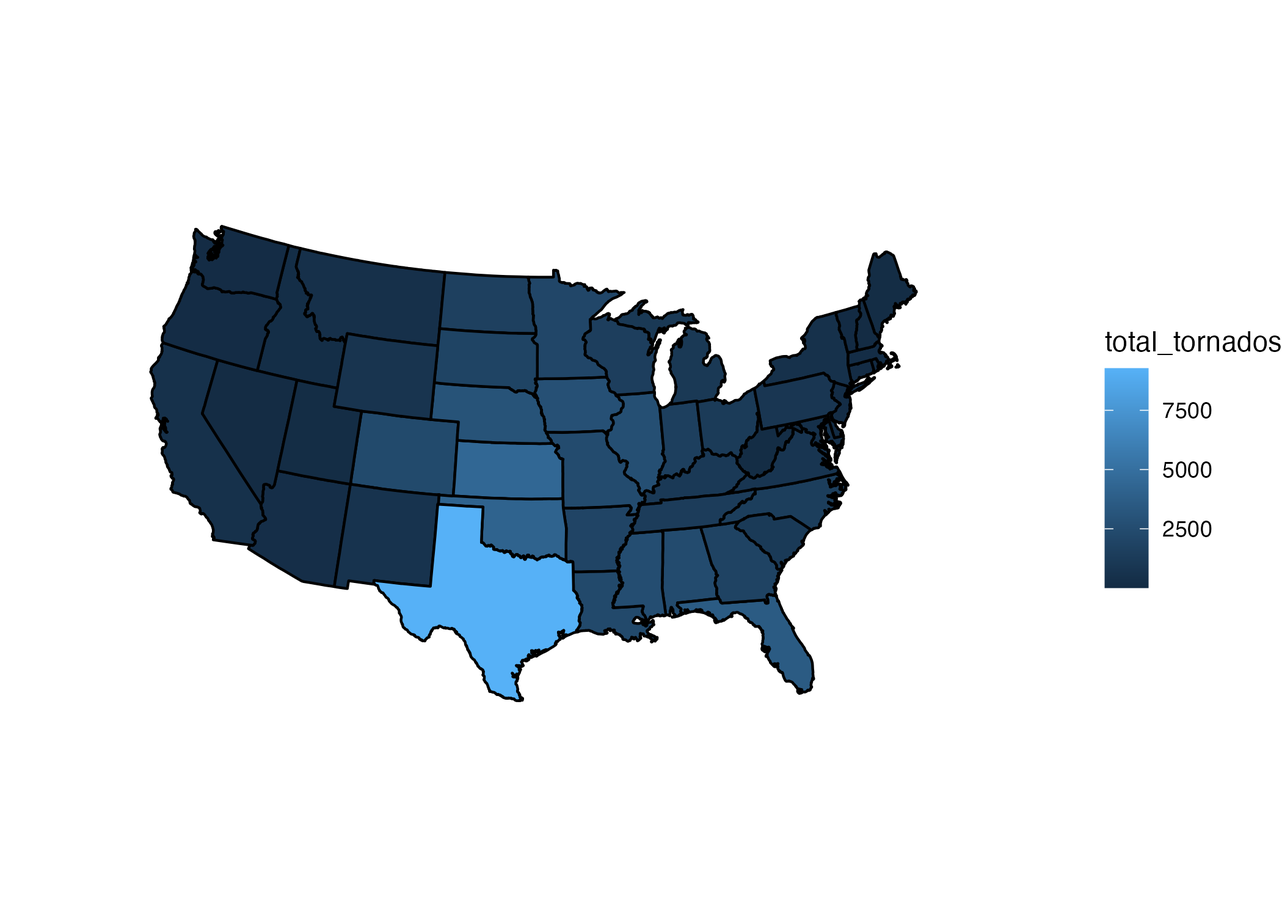
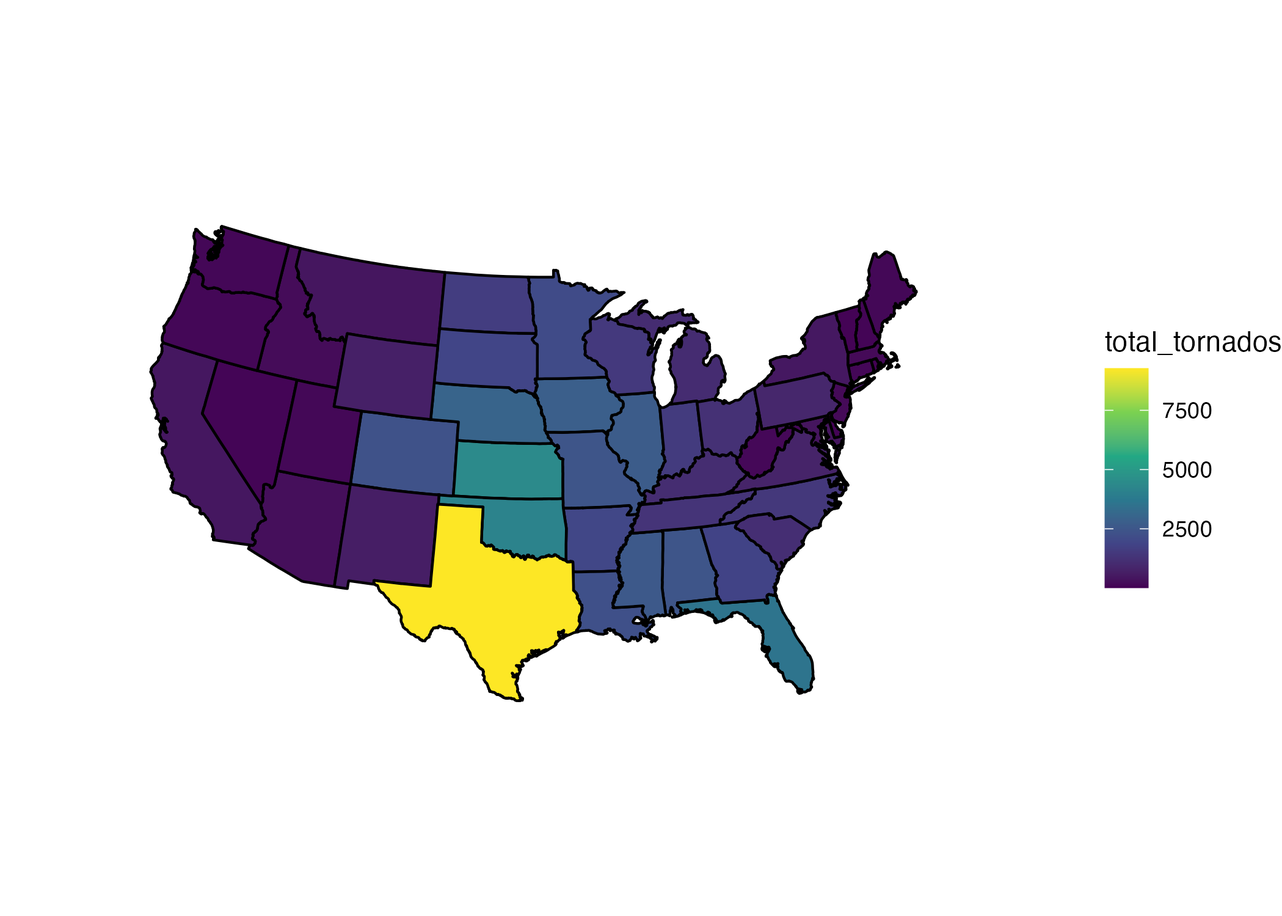
blog post 1 final commit

Changed region(s): [[0.0929, 0.2455, 0.7122, 0.7672], [0.8361, 0.3989, 0.898, 0.6444]]

diff --git a/docs/posts/BlogPost1/index.html b/docs/posts/BlogPost1/index.html
@@ -7,7 +7,7 @@
 <meta name="viewport" content="width=device-width, initial-scale=1.0, user-scalable=yes">
 
 <meta name="author" content="Brody Pinto">
-<meta name="dcterms.date" content="2024-02-07">
+<meta name="dcterms.date" content="2024-02-09">
 
 <title>DATA334blog - Blog Post #1: US Tornado Data Exploration</title>
 <style>
@@ -163,7 +163,7 @@ pre > code.sourceCode > span > a:first-child::before { text-decoration: underlin
       <div>
       <div class="quarto-title-meta-heading">Published</div>
       <div class="quarto-title-meta-contents">
-        <p class="date">February 7, 2024</p>
+        <p class="date">February 9, 2024</p>
       </div>
     </div>
     
@@ -181,13 +181,32 @@ pre > code.sourceCode > span > a:first-child::before { text-decoration: underlin
 
 
 
+<section id="tornadoes-data-set-introduction" class="level2">
+<h2 class="anchored" data-anchor-id="tornadoes-data-set-introduction">Tornadoes Data Set Introduction</h2>
+<ul>
+<li>These data come from NOAA’s National Weather Service Storm Prediction Center. This data set consists of 27 different variables describing each observed tornado instance (68,693 total observations) in the United States from 1950 to 2022. I found this data set from tidytuesday on GitHub from the following URL: <a href="https://github.com/rfordatascience/tidytuesday/blob/master/data/2023/2023-05-16/readme.md">https://github.com/rfordatascience/tidytuesday/blob/master/data/2023/2023-05-16/readme.md</a>.</li>
+</ul>
+<p><strong>Questions of Interest</strong></p>
+<ul>
+<li>How do total tornado occurrences vary within the United States - which state has seen the most hurricanes over the last 72 years?</li>
+<li>How has the occurrence of extreme tornadoes (&gt;3F) changed over the last 72 years?</li>
+<li>In which months are tornadoes most common?</li>
+</ul>
+<p><strong>Variables of Interest</strong></p>
+<ul>
+<li>yr: year of tornado occurrence</li>
+<li>mo: month of tornado occurrence</li>
+<li>st: two-letter abbreviation for the state</li>
+<li>mag: tornado magnitude on the Fujita Scale (0F-5F)</li>
+</ul>
 <div class="cell">
 <div class="sourceCode cell-code" id="cb1"><pre class="sourceCode r code-with-copy"><code class="sourceCode r"><span id="cb1-1"><a href="#cb1-1" aria-hidden="true" tabindex="-1"></a><span class="fu">library</span>(tidyverse)</span>
 <span id="cb1-2"><a href="#cb1-2" aria-hidden="true" tabindex="-1"></a><span class="fu">library</span>(here)</span>
 <span id="cb1-3"><a href="#cb1-3" aria-hidden="true" tabindex="-1"></a><span class="fu">library</span>(maps)</span>
-<span id="cb1-4"><a href="#cb1-4" aria-hidden="true" tabindex="-1"></a></span>
-<span id="cb1-5"><a href="#cb1-5" aria-hidden="true" tabindex="-1"></a>tornados <span class="ot">&lt;-</span> <span class="fu">read_csv</span>(<span class="st">'https://raw.githubusercontent.com/rfordatascience/tidytuesday/master/data/2023/2023-05-16/tornados.csv'</span>)</span>
-<span id="cb1-6"><a href="#cb1-6" aria-hidden="true" tabindex="-1"></a><span class="fu">head</span>(tornados)</span></code><button title="Copy to Clipboard" class="code-copy-button"><i class="bi"></i></button></pre></div>
+<span id="cb1-4"><a href="#cb1-4" aria-hidden="true" tabindex="-1"></a><span class="fu">library</span>(RColorBrewer)</span>
+<span id="cb1-5"><a href="#cb1-5" aria-hidden="true" tabindex="-1"></a></span>
+<span id="cb1-6"><a href="#cb1-6" aria-hidden="true" tabindex="-1"></a>tornadoes <span class="ot">&lt;-</span> <span class="fu">read_csv</span>(<span class="st">'https://raw.githubusercontent.com/rfordatascience/tidytuesday/master/data/2023/2023-05-16/tornados.csv'</span>)</span>
+<span id="cb1-7"><a href="#cb1-7" aria-hidden="true" tabindex="-1"></a><span class="fu">head</span>(tornadoes)</span></code><button title="Copy to Clipboard" class="code-copy-button"><i class="bi"></i></button></pre></div>
 <div class="cell-output cell-output-stdout">
 <pre><code># A tibble: 6 × 27
      om    yr    mo    dy date       time  tz    datetime_utc        st      stf
@@ -203,18 +222,9 @@ pre > code.sourceCode > span > a:first-child::before { text-decoration: underlin
 #   sn &lt;dbl&gt;, f1 &lt;dbl&gt;, f2 &lt;dbl&gt;, f3 &lt;dbl&gt;, f4 &lt;dbl&gt;, fc &lt;lgl&gt;</code></pre>
 </div>
 </div>
-<section id="tornados-data-set-introduction" class="level2">
-<h2 class="anchored" data-anchor-id="tornados-data-set-introduction">Tornados Data Set Introduction</h2>
-<ul>
-<li>These data come from NOAA’s National Weather Service Storm Prediction Center. This data set consists of 27 different variables describing each observed tornado instance (68,693 total observations) in the United States from 1950 to 2022.</li>
-</ul>
-<p><strong>Variables of Interest</strong></p>
-<ul>
-<li>date <date></date></li>
-<li>st <chr>: two-letter abbreviation for the state</chr></li>
-<li>mag <dbl>: tornado magnitude on the F scale</dbl></li>
-<li></li>
-</ul>
+</section>
+<section id="how-do-total-tornado-occurrances-vary-within-the-united-states---which-state-has-seen-the-most-hurricanes-over-the-past-72-years" class="level2">
+<h2 class="anchored" data-anchor-id="how-do-total-tornado-occurrances-vary-within-the-united-states---which-state-has-seen-the-most-hurricanes-over-the-past-72-years">How do total tornado occurrances vary within the United States - which state has seen the most hurricanes over the past 72 years?</h2>
 <div class="cell">
 <div class="sourceCode cell-code" id="cb3"><pre class="sourceCode r code-with-copy"><code class="sourceCode r"><span id="cb3-1"><a href="#cb3-1" aria-hidden="true" tabindex="-1"></a>state_df <span class="ot">&lt;-</span> <span class="fu">map_data</span>(<span class="st">"state"</span>)</span>
 <span id="cb3-2"><a href="#cb3-2" aria-hidden="true" tabindex="-1"></a></span>
@@ -270,8 +280,8 @@ pre > code.sourceCode > span > a:first-child::before { text-decoration: underlin
 <span id="cb3-52"><a href="#cb3-52" aria-hidden="true" tabindex="-1"></a>                                  region <span class="sc">==</span> <span class="st">"wyoming"</span> <span class="sc">~</span> <span class="st">"WY"</span>,</span>
 <span id="cb3-53"><a href="#cb3-53" aria-hidden="true" tabindex="-1"></a>                                  <span class="cn">TRUE</span> <span class="sc">~</span> <span class="cn">NA_character_</span>))</span>
 <span id="cb3-54"><a href="#cb3-54" aria-hidden="true" tabindex="-1"></a></span>
-<span id="cb3-55"><a href="#cb3-55" aria-hidden="true" tabindex="-1"></a>tornados_summary <span class="ot">=</span> tornados <span class="sc">|&gt;</span> <span class="fu">group_by</span>(st) <span class="sc">|&gt;</span></span>
-<span id="cb3-56"><a href="#cb3-56" aria-hidden="true" tabindex="-1"></a>  <span class="fu">summarise</span>(<span class="at">total_tornados =</span> <span class="fu">n</span>(),</span>
+<span id="cb3-55"><a href="#cb3-55" aria-hidden="true" tabindex="-1"></a>tornadoes_summary <span class="ot">=</span> tornadoes <span class="sc">|&gt;</span> <span class="fu">group_by</span>(st) <span class="sc">|&gt;</span></span>
+<span id="cb3-56"><a href="#cb3-56" aria-hidden="true" tabindex="-1"></a>  <span class="fu">summarise</span>(<span class="at">total_tornadoes =</span> <span class="fu">n</span>(),</span>
 <span id="cb3-57"><a href="#cb3-57" aria-hidden="true" tabindex="-1"></a>            <span class="at">mean_magnitude =</span> <span class="fu">mean</span>(mag),</span>
 <span id="cb3-58"><a href="#cb3-58" aria-hidden="true" tabindex="-1"></a>            <span class="at">mean_injuries =</span> <span class="fu">mean</span>(inj),</span>
 <span id="cb3-59"><a href="#cb3-59" aria-hidden="true" tabindex="-1"></a>            <span class="at">mean_fatalities =</span> <span class="fu">mean</span>(fat),</span>
@@ -279,30 +289,88 @@ pre > code.sourceCode > span > a:first-child::before { text-decoration: underlin
 <span id="cb3-61"><a href="#cb3-61" aria-hidden="true" tabindex="-1"></a>            <span class="at">mean_length =</span> <span class="fu">mean</span>(len),</span>
 <span id="cb3-62"><a href="#cb3-62" aria-hidden="true" tabindex="-1"></a>            <span class="at">mean_width =</span> <span class="fu">mean</span>(wid))</span>
 <span id="cb3-63"><a href="#cb3-63" aria-hidden="true" tabindex="-1"></a></span>
-<span id="cb3-64"><a href="#cb3-64" aria-hidden="true" tabindex="-1"></a>state_tornados <span class="ot">=</span> <span class="fu">left_join</span>(state_abbrev, tornados_summary, <span class="at">by =</span> <span class="fu">c</span>(<span class="st">"state"</span> <span class="ot">=</span> <span class="st">"st"</span>))</span>
+<span id="cb3-64"><a href="#cb3-64" aria-hidden="true" tabindex="-1"></a>state_tornadoes <span class="ot">=</span> <span class="fu">left_join</span>(state_abbrev, tornadoes_summary, <span class="at">by =</span> <span class="fu">c</span>(<span class="st">"state"</span> <span class="ot">=</span> <span class="st">"st"</span>))</span>
 <span id="cb3-65"><a href="#cb3-65" aria-hidden="true" tabindex="-1"></a></span>
-<span id="cb3-66"><a href="#cb3-66" aria-hidden="true" tabindex="-1"></a><span class="fu">table</span>(state_tornados<span class="sc">$</span>state)</span></code><button title="Copy to Clipboard" class="code-copy-button"><i class="bi"></i></button></pre></div>
-<div class="cell-output cell-output-stdout">
-<pre><code>
-  AL   AR   AZ   CA   CO   CT   DE   FL   GA   IA   ID   IL   IN   KS   KY   LA 
- 202  312  149  516   79   91   94  872  381  256  233  329  257  113  397  650 
-  MA   MD   ME   MI   MN   MO   MS   MT   NC   ND   NE   NH   NJ   NM   NV   NY 
- 286  566  399  830  373  315  382  238  782  105  208  125  205   78   70  495 
-  OH   OK   OR   PA   RI   SC   SD   TN   TX   UT   VA   VT   WA   WI   WV   WY 
- 238  284  236  172   66  304  166  289 1088   59  734  129  545  388  373   68 </code></pre>
-</div>
-<div class="sourceCode cell-code" id="cb5"><pre class="sourceCode r code-with-copy"><code class="sourceCode r"><span id="cb5-1"><a href="#cb5-1" aria-hidden="true" tabindex="-1"></a>map_totaltornados <span class="ot">=</span> <span class="fu">ggplot</span>(<span class="at">data =</span> state_tornados,</span>
-<span id="cb5-2"><a href="#cb5-2" aria-hidden="true" tabindex="-1"></a>            <span class="at">mapping =</span> <span class="fu">aes</span>(<span class="at">x =</span> long, <span class="at">y =</span> lat,</span>
-<span id="cb5-3"><a href="#cb5-3" aria-hidden="true" tabindex="-1"></a>                          <span class="at">group =</span> group)) <span class="sc">+</span></span>
-<span id="cb5-4"><a href="#cb5-4" aria-hidden="true" tabindex="-1"></a>  <span class="fu">geom_polygon</span>(<span class="at">colour =</span> <span class="st">"black"</span>, <span class="fu">aes</span>(<span class="at">fill =</span> total_tornados)) <span class="sc">+</span></span>
-<span id="cb5-5"><a href="#cb5-5" aria-hidden="true" tabindex="-1"></a>  <span class="fu">coord_map</span>(<span class="at">projection =</span> <span class="st">"albers"</span>, <span class="at">lat0 =</span> <span class="dv">39</span>, <span class="at">lat1 =</span> <span class="dv">45</span>) <span class="sc">+</span></span>
-<span id="cb5-6"><a href="#cb5-6" aria-hidden="true" tabindex="-1"></a>  <span class="fu">theme_void</span>()</span>
-<span id="cb5-7"><a href="#cb5-7" aria-hidden="true" tabindex="-1"></a></span>
-<span id="cb5-8"><a href="#cb5-8" aria-hidden="true" tabindex="-1"></a><span class="fu">ggsave</span>(<span class="fu">here</span>(<span class="st">"posts/BlogPost1/total_tornados_map.png"</span>), map_totaltornados)</span></code><button title="Copy to Clipboard" class="code-copy-button"><i class="bi"></i></button></pre></div>
-<div class="cell-output cell-output-stderr">
-<pre><code>Saving 7 x 5 in image</code></pre>
+<span id="cb3-66"><a href="#cb3-66" aria-hidden="true" tabindex="-1"></a>map_totaltornadoes <span class="ot">=</span> <span class="fu">ggplot</span>(<span class="at">data =</span> state_tornadoes,</span>
+<span id="cb3-67"><a href="#cb3-67" aria-hidden="true" tabindex="-1"></a>            <span class="at">mapping =</span> <span class="fu">aes</span>(<span class="at">x =</span> long, <span class="at">y =</span> lat,</span>
+<span id="cb3-68"><a href="#cb3-68" aria-hidden="true" tabindex="-1"></a>                          <span class="at">group =</span> group)) <span class="sc">+</span></span>
+<span id="cb3-69"><a href="#cb3-69" aria-hidden="true" tabindex="-1"></a>  <span class="fu">geom_polygon</span>(<span class="at">colour =</span> <span class="st">"black"</span>, <span class="fu">aes</span>(<span class="at">fill =</span> total_tornadoes)) <span class="sc">+</span></span>
+<span id="cb3-70"><a href="#cb3-70" aria-hidden="true" tabindex="-1"></a>  <span class="fu">coord_map</span>(<span class="at">projection =</span> <span class="st">"albers"</span>, <span class="at">lat0 =</span> <span class="dv">39</span>, <span class="at">lat1 =</span> <span class="dv">45</span>) <span class="sc">+</span></span>
+<span id="cb3-71"><a href="#cb3-71" aria-hidden="true" tabindex="-1"></a>  <span class="fu">theme_void</span>() <span class="sc">+</span></span>
+<span id="cb3-72"><a href="#cb3-72" aria-hidden="true" tabindex="-1"></a>  <span class="fu">scale_fill_viridis_c</span>()</span>
+<span id="cb3-73"><a href="#cb3-73" aria-hidden="true" tabindex="-1"></a></span>
+<span id="cb3-74"><a href="#cb3-74" aria-hidden="true" tabindex="-1"></a>map_totaltornadoes</span></code><button title="Copy to Clipboard" class="code-copy-button"><i class="bi"></i></button></pre></div>
+<div class="cell-output-display">
+<p><img src="index_files/figure-html/unnamed-chunk-2-1.png" class="img-fluid" width="672"></p>
 </div>
 </div>
+<div class="cell">
+<div class="sourceCode cell-code" id="cb4"><pre class="sourceCode r code-with-copy"><code class="sourceCode r"><span id="cb4-1"><a href="#cb4-1" aria-hidden="true" tabindex="-1"></a><span class="fu">ggsave</span>(<span class="fu">here</span>(<span class="st">"posts/BlogPost1/total_tornadoes_map.png"</span>), map_totaltornadoes)</span></code><button title="Copy to Clipboard" class="code-copy-button"><i class="bi"></i></button></pre></div>
+</div>
+<p><strong>Visual Takeaways:</strong> This is a map of the United States, colored by total tornado instances over the past 72 years. Texas stands out as having a significantly higher number of tornadoes than the rest of the country. This may be surprising, as one might expect either Kansas or Oklahoma to take the top spot (while those two states appear to be coming in the second and third most tornadoes). One possible explanation is that Texas is significantly larger in terms of pure land area. One visible trend is “tornado alley” through the center of the United States from Texas through South Dakota (including eastern Colorado). Florida is also an interesting case, having a similar number of tornadoes to states in tornado valley. This makes sense because tornadoes often occur during other severe storm events such as thunderstorms, tropical storms, and hurricanes.</p>
+<p><br></p>
+</section>
+<section id="how-has-the-occurrence-of-extreme-tornadoes-3f-changed-over-the-last-72-years" class="level2">
+<h2 class="anchored" data-anchor-id="how-has-the-occurrence-of-extreme-tornadoes-3f-changed-over-the-last-72-years">How has the occurrence of extreme tornadoes (&gt;3F) changed over the last 72 years?</h2>
+<div class="cell">
+<div class="sourceCode cell-code" id="cb5"><pre class="sourceCode r code-with-copy"><code class="sourceCode r"><span id="cb5-1"><a href="#cb5-1" aria-hidden="true" tabindex="-1"></a>tornadoes_mag_sum <span class="ot">=</span> tornadoes <span class="sc">|&gt;</span> <span class="fu">filter</span>(mag <span class="sc">&gt;</span> <span class="dv">2</span>) <span class="sc">|&gt;</span></span>
+<span id="cb5-2"><a href="#cb5-2" aria-hidden="true" tabindex="-1"></a>  <span class="fu">group_by</span>(yr,mag) <span class="sc">|&gt;</span></span>
+<span id="cb5-3"><a href="#cb5-3" aria-hidden="true" tabindex="-1"></a>  <span class="fu">summarise</span>(<span class="at">tornado_occurrences =</span> <span class="fu">n</span>()) <span class="sc">|&gt;</span></span>
+<span id="cb5-4"><a href="#cb5-4" aria-hidden="true" tabindex="-1"></a>  <span class="fu">mutate</span>(<span class="at">mag =</span> <span class="fu">as_factor</span>(mag))</span>
+<span id="cb5-5"><a href="#cb5-5" aria-hidden="true" tabindex="-1"></a></span>
+<span id="cb5-6"><a href="#cb5-6" aria-hidden="true" tabindex="-1"></a><span class="fu">ggplot</span>(<span class="at">data =</span> tornadoes_mag_sum, <span class="fu">aes</span>(<span class="at">x =</span> yr, <span class="at">y =</span> tornado_occurrences, <span class="at">col =</span> mag)) <span class="sc">+</span></span>
+<span id="cb5-7"><a href="#cb5-7" aria-hidden="true" tabindex="-1"></a>  <span class="fu">geom_line</span>() <span class="sc">+</span></span>
+<span id="cb5-8"><a href="#cb5-8" aria-hidden="true" tabindex="-1"></a>  <span class="fu">scale_color_brewer</span>(<span class="at">palette =</span> <span class="st">"Dark2"</span>) <span class="sc">+</span></span>
+<span id="cb5-9"><a href="#cb5-9" aria-hidden="true" tabindex="-1"></a>  <span class="fu">labs</span>(<span class="at">x =</span> <span class="st">"Year"</span>, <span class="at">y =</span> <span class="st">"Severe Tornado Occurences"</span>) <span class="sc">+</span></span>
+<span id="cb5-10"><a href="#cb5-10" aria-hidden="true" tabindex="-1"></a>  <span class="fu">theme_minimal</span>()</span></code><button title="Copy to Clipboard" class="code-copy-button"><i class="bi"></i></button></pre></div>
+<div class="cell-output-display">
+<p><img src="index_files/figure-html/unnamed-chunk-4-1.png" class="img-fluid" width="672"></p>
+</div>
+</div>
+<p><strong>Visual Takeaways:</strong> There doesn’t appear to be any strong trend in extreme tornadoes in the United States. The trend for severe (3F: 158-206 mph), devastating (4F: 207-260 mph), and incredible (5F: 261-318 mph) tornadoes seems to be random and relatively unpredictable. With increasing instability in the environment due to global climate change, I expected to see an increase in more intense tornadoes from 1950 to 2022. For severe hurricanes, however, there has been a slight overall decrease in occurrences over time.</p>
+<p><br></p>
+</section>
+<section id="in-which-months-are-tornadoes-most-common" class="level2">
+<h2 class="anchored" data-anchor-id="in-which-months-are-tornadoes-most-common">In which months are tornadoes most common?</h2>
+<div class="cell">
+<div class="sourceCode cell-code" id="cb6"><pre class="sourceCode r code-with-copy"><code class="sourceCode r"><span id="cb6-1"><a href="#cb6-1" aria-hidden="true" tabindex="-1"></a>month_tornado <span class="ot">=</span> tornadoes <span class="sc">|&gt;</span></span>
+<span id="cb6-2"><a href="#cb6-2" aria-hidden="true" tabindex="-1"></a>  <span class="fu">group_by</span>(mo) <span class="sc">|&gt;</span></span>
+<span id="cb6-3"><a href="#cb6-3" aria-hidden="true" tabindex="-1"></a>  <span class="fu">summarise</span>(<span class="at">Month_totals =</span> <span class="fu">n</span>()) <span class="sc">|&gt;</span></span>
+<span id="cb6-4"><a href="#cb6-4" aria-hidden="true" tabindex="-1"></a>  <span class="fu">mutate</span>(<span class="at">Month =</span> <span class="fu">case_when</span>(mo <span class="sc">==</span> <span class="dv">1</span> <span class="sc">~</span> <span class="st">"Jan"</span>,</span>
+<span id="cb6-5"><a href="#cb6-5" aria-hidden="true" tabindex="-1"></a>                           mo <span class="sc">==</span> <span class="dv">2</span> <span class="sc">~</span> <span class="st">"Feb"</span>,</span>
+<span id="cb6-6"><a href="#cb6-6" aria-hidden="true" tabindex="-1"></a>                           mo <span class="sc">==</span> <span class="dv">3</span> <span class="sc">~</span> <span class="st">"Mar"</span>,</span>
+<span id="cb6-7"><a href="#cb6-7" aria-hidden="true" tabindex="-1"></a>                           mo <span class="sc">==</span> <span class="dv">4</span> <span class="sc">~</span> <span class="st">"Apr"</span>,</span>
+<span id="cb6-8"><a href="#cb6-8" aria-hidden="true" tabindex="-1"></a>                           mo <span class="sc">==</span> <span class="dv">5</span> <span class="sc">~</span> <span class="st">"May"</span>,</span>
+<span id="cb6-9"><a href="#cb6-9" aria-hidden="true" tabindex="-1"></a>                           mo <span class="sc">==</span> <span class="dv">6</span> <span class="sc">~</span> <span class="st">"Jun"</span>,</span>
+<span id="cb6-10"><a href="#cb6-10" aria-hidden="true" tabindex="-1"></a>                           mo <span class="sc">==</span> <span class="dv">7</span> <span class="sc">~</span> <span class="st">"Jul"</span>,</span>
+<span id="cb6-11"><a href="#cb6-11" aria-hidden="true" tabindex="-1"></a>                           mo <span class="sc">==</span> <span class="dv">8</span> <span class="sc">~</span> <span class="st">"Aug"</span>,</span>
+<span id="cb6-12"><a href="#cb6-12" aria-hidden="true" tabindex="-1"></a>                           mo <span class="sc">==</span> <span class="dv">9</span> <span class="sc">~</span> <span class="st">"Sep"</span>,</span>
+<span id="cb6-13"><a href="#cb6-13" aria-hidden="true" tabindex="-1"></a>                           mo <span class="sc">==</span> <span class="dv">10</span> <span class="sc">~</span> <span class="st">"Oct"</span>,</span>
+<span id="cb6-14"><a href="#cb6-14" aria-hidden="true" tabindex="-1"></a>                           mo <span class="sc">==</span> <span class="dv">11</span> <span class="sc">~</span> <span class="st">"Nov"</span>,</span>
+<span id="cb6-15"><a href="#cb6-15" aria-hidden="true" tabindex="-1"></a>                           mo <span class="sc">==</span> <span class="dv">12</span> <span class="sc">~</span> <span class="st">"Dec"</span>)) <span class="sc">|&gt;</span></span>
+<span id="cb6-16"><a href="#cb6-16" aria-hidden="true" tabindex="-1"></a>  <span class="fu">mutate</span>(<span class="at">Month =</span> <span class="fu">as.factor</span>(<span class="at">x =</span> Month),</span>
+<span id="cb6-17"><a href="#cb6-17" aria-hidden="true" tabindex="-1"></a>         <span class="at">Month =</span> <span class="fu">fct_reorder</span>(Month, mo))</span>
+<span id="cb6-18"><a href="#cb6-18" aria-hidden="true" tabindex="-1"></a></span>
+<span id="cb6-19"><a href="#cb6-19" aria-hidden="true" tabindex="-1"></a>top_3 <span class="ot">=</span> month_tornado <span class="sc">|&gt;</span></span>
+<span id="cb6-20"><a href="#cb6-20" aria-hidden="true" tabindex="-1"></a>  <span class="fu">filter</span>(Month <span class="sc">%in%</span> <span class="fu">c</span>(<span class="st">"Apr"</span>, <span class="st">"May"</span>, <span class="st">"Jun"</span>))</span>
+<span id="cb6-21"><a href="#cb6-21" aria-hidden="true" tabindex="-1"></a></span>
+<span id="cb6-22"><a href="#cb6-22" aria-hidden="true" tabindex="-1"></a><span class="fu">ggplot</span>(<span class="at">data =</span> month_tornado, <span class="fu">aes</span>(<span class="at">x =</span> Month, <span class="at">y =</span> Month_totals)) <span class="sc">+</span></span>
+<span id="cb6-23"><a href="#cb6-23" aria-hidden="true" tabindex="-1"></a>  <span class="fu">geom_segment</span>(<span class="fu">aes</span>(<span class="at">xend =</span> Month, <span class="at">y =</span> <span class="dv">0</span>, <span class="at">yend =</span> Month_totals)) <span class="sc">+</span></span>
+<span id="cb6-24"><a href="#cb6-24" aria-hidden="true" tabindex="-1"></a>  <span class="fu">geom_point</span>() <span class="sc">+</span></span>
+<span id="cb6-25"><a href="#cb6-25" aria-hidden="true" tabindex="-1"></a>  <span class="fu">geom_segment</span>(<span class="at">data =</span> top_3, <span class="fu">aes</span>(<span class="at">xend =</span> Month, <span class="at">y =</span> <span class="dv">0</span>, <span class="at">yend =</span> Month_totals), <span class="at">col =</span> <span class="st">"darkred"</span>, <span class="at">linewidth =</span> <span class="dv">2</span>) <span class="sc">+</span></span>
+<span id="cb6-26"><a href="#cb6-26" aria-hidden="true" tabindex="-1"></a>  <span class="fu">geom_point</span>(<span class="at">data =</span> top_3, <span class="at">col =</span> <span class="st">"darkred"</span>, <span class="at">size =</span> <span class="dv">3</span>) <span class="sc">+</span></span>
+<span id="cb6-27"><a href="#cb6-27" aria-hidden="true" tabindex="-1"></a>  <span class="fu">labs</span>(<span class="at">y =</span> <span class="st">"Tornado Occurrences"</span>) <span class="sc">+</span></span>
+<span id="cb6-28"><a href="#cb6-28" aria-hidden="true" tabindex="-1"></a>  <span class="fu">theme_minimal</span>()</span></code><button title="Copy to Clipboard" class="code-copy-button"><i class="bi"></i></button></pre></div>
+<div class="cell-output-display">
+<p><img src="index_files/figure-html/unnamed-chunk-5-1.png" class="img-fluid" width="672"></p>
+</div>
+</div>
+<p><strong>Visual Takeaway:</strong> The most tornadoes occur during the start of summer - particularly April, May, and June. These three months seem significantly higher than the rest, which makes sense due to the typical atmospheric conditions that exist during this time. The introduction of more warm, moist air, combined with cooler, dry air causes instability in the lower atmosphere. The dryness of the winter months lead to lower instances of tornadoes in the United States.</p>
+<p><br></p>
+</section>
+<section id="connection-to-class-ideas" class="level2">
+<h2 class="anchored" data-anchor-id="connection-to-class-ideas">Connection to Class Ideas</h2>
+<p>These visuals effectively communicate information about tornado data in the United States by incorporating color, cleanliness, and organization to appeal to the reader’s visual senses. In terms of human perception, changes in color are much easier to distinguish than changes in shape, so I made sure to use color that grabs the reader’s attention whenever applicable. For the map of the United States, I used a sequential, continuous color scale to represent the total number of tornado occurrences per state. This color scale is ideal for representing this type of data because it allows for a quick, effective interpretation of the intended results. Finally, I tried to maximize data-to-ink ratio as much as possible to ensure the reader’s attention was in the right place and not distracted by any superfluous detail.</p>
 
 
 </section>

diff --git a/docs/index.html b/docs/index.html
@@ -170,9 +170,9 @@ ul.task-list li input[type="checkbox"] {
 
 <div class="quarto-listing quarto-listing-container-default" id="listing-listing">
 <div class="list quarto-listing-default">
-<div class="quarto-post image-right" data-index="0" data-categories="code,analysis" data-listing-date-sort="1707217200000" data-listing-file-modified-sort="1707274035573" data-listing-date-modified-sort="NaN" data-listing-reading-time-sort="11">
+<div class="quarto-post image-right" data-index="0" data-categories="code,analysis" data-listing-date-sort="1707390000000" data-listing-file-modified-sort="1707428624663" data-listing-date-modified-sort="NaN" data-listing-reading-time-sort="17">
 <div class="thumbnail">
-<p><a href="./posts/BlogPost1/index.html"> <img src="./posts/BlogPost1/total_tornados_map.png" class="thumbnail-image"> </a></p>
+<p><a href="./posts/BlogPost1/index.html"> <img src="./posts/BlogPost1/total_tornadoes_map.png" class="thumbnail-image"> </a></p>
 </div>
 <div class="body">
 <a href="./posts/BlogPost1/index.html">
@@ -193,14 +193,14 @@ analysis
 </div>
 <a href="./posts/BlogPost1/index.html">
 <div class="listing-description">
-<strong>Variables of Interest</strong>
+<strong>Questions of Interest</strong>
 </div>
 </a>
 </div>
 <div class="metadata">
 <a href="./posts/BlogPost1/index.html">
 <div class="listing-date">
-Feb 7, 2024
+Feb 9, 2024
 </div>
 <div class="listing-author">
 Brody Pinto
